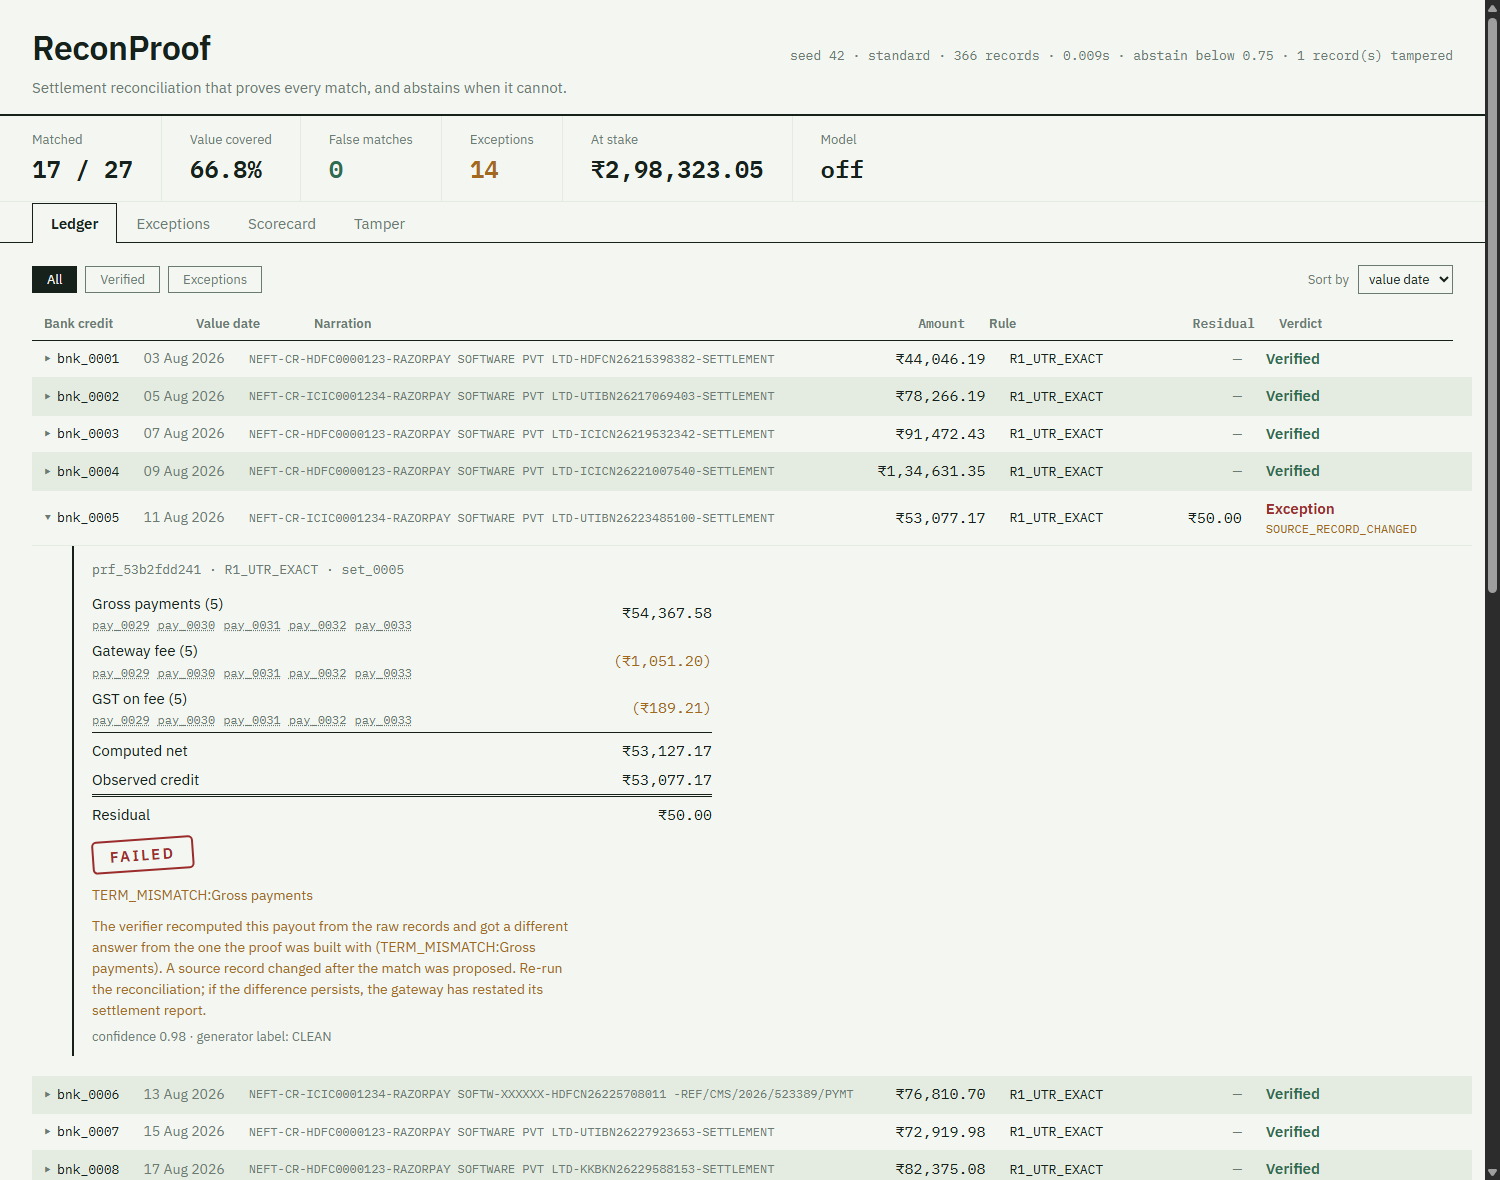
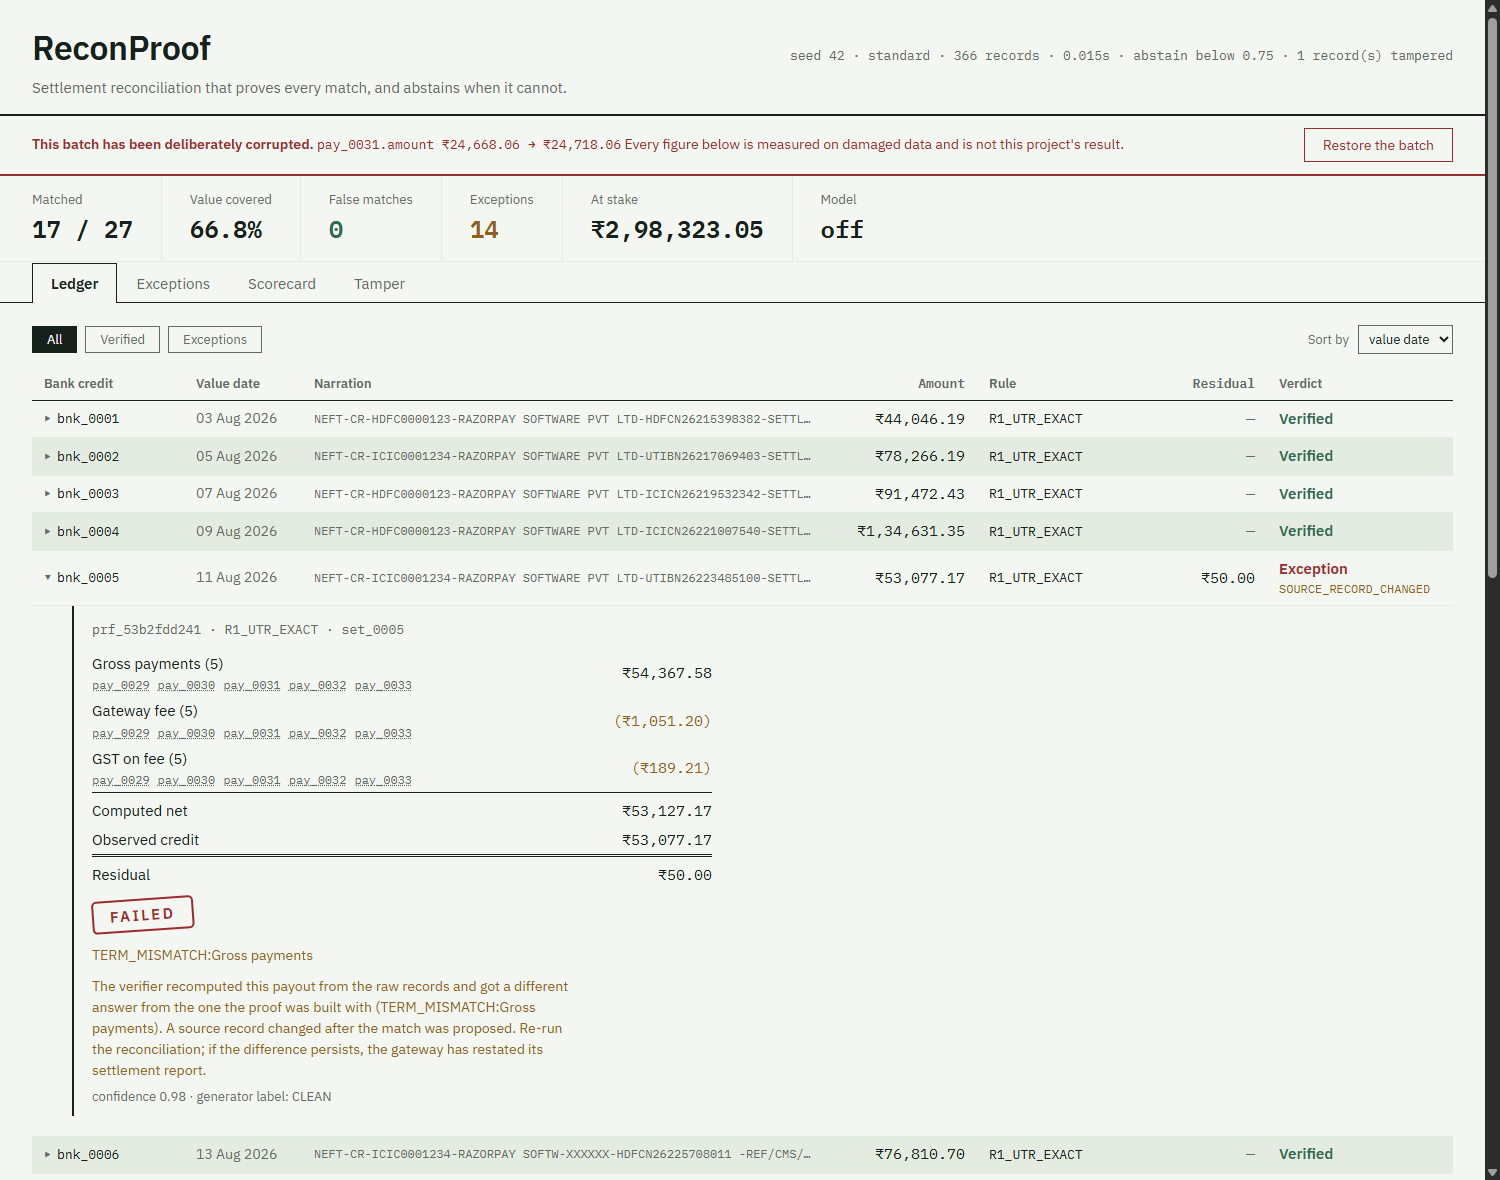
Screenshots after the column fix, and two more incidents logged

diff --git a/WHAT_BROKE.md b/WHAT_BROKE.md
@@ -174,3 +174,67 @@ text. `TestIntegrityFailuresAreTypedHonestly` asserts all of it.
 and two of them describe failures of my own pipeline rather than of the merchant's
 books. That is the honest shape of it: some of what a reconciler cannot explain is the
 reconciler's fault, and the queue should say which.
+
+---
+
+## 2026-09-05 — The ledger's columns were a lie on a 1280px screen
+
+**Symptom.** Driving the dashboard through a real 1280px window before recording the
+demo: the ledger scrolled sideways by 210 px. The other three screens were fine. The
+header row was aligned; the body rows were not.
+
+**Diagnosis.** Measuring the cells gave it away. Header cells came out
+`[152, 118, 289, 148, 142, 148, 186]` — exactly the `<colgroup>`. Body cells came out
+`[99, 105, 629, 132, 133, 123, 218]` — content-sized, ignoring the colgroup entirely,
+and 1440 px wide inside a 1183 px table.
+
+The cause was one line in `renderLedger`. To get the greenbar band to cover a credit
+*and* its derivation panel, I had created one `<tbody>` per credit — and appended each
+one into `<tbody id="ledger-body">`. A `<tbody>` inside a `<tbody>` is not a row group;
+the engine wraps it in an anonymous table, and that inner table never sees the outer
+one's `table-layout: fixed` or its columns. The header, being a direct child of the real
+table, obeyed the colgroup. Everything else quietly re-invented its own widths.
+
+It looked *almost* right, which is why it survived four rounds of screenshots. The
+columns were misaligned in every image I had already committed to the README and I had
+read past it every time.
+
+**Fix.** One `<tbody>`, with the band as a class on the rows. A credit and its
+derivation row carry the same band class, so the pair still reads as one entry.
+
+**The number that got worse.** None, and that is the point: no test could have caught
+this. `pytest` was green throughout — the reconciliation was never wrong, only the
+picture of it was. The check that found it was measuring rendered geometry in a real
+browser at a real window size, which is not something I had been doing at all.
+
+---
+
+## 2026-09-05 — The brief's palette fails the brief's own accessibility floor
+
+**Symptom.** Computing WCAG contrast for every token against the paper stock, because
+`PHASE_2_POLISH.md` says "contrast checked against `--paper`" under a heading that reads
+"Accessibility floor, no exceptions".
+
+Two of the seven fail. `--muted` `#6B7A72` scores **4.14:1** and `--flag` `#A2691E`
+scores **4.21:1** against `--paper`, where normal-size text needs 4.5:1. On the
+`--stripe` band — every other row of the ledger — they drop to 3.71 and 3.77.
+
+**Diagnosis.** Not a subtle case. `--muted` carries the labels, value dates, narrations
+and source IDs; `--flag` carries every residual and reason code. All of it is
+normal-size text, most of it sitting on the striped band, and the residuals are the
+figures the whole screen exists to show.
+
+The brief also says of the palette: "use nothing outside this set". So the two
+instructions genuinely conflict, and the conflict has to be resolved rather than
+averaged.
+
+**Fix.** The floor wins, by the narrowest margin that clears it. Both tokens keep their
+hue and saturation exactly; only lightness drops, until each clears 4.5:1 on both the
+paper and the band: `--muted` `#5F6C65` (5.04 / 4.52), `--flag` `#915E1B` (5.04 / 4.52).
+The other five tokens are untouched, and the reasoning is written into `styles.css` at
+the point of deviation rather than buried here.
+
+**The number that got worse.** The design brief is no longer followed to the letter, and
+I cannot claim it is. Two hex values in a document that said "use nothing outside this
+set" are now different, on my own judgement, because I could not find a reading in which
+unreadable residuals were the intended outcome.
